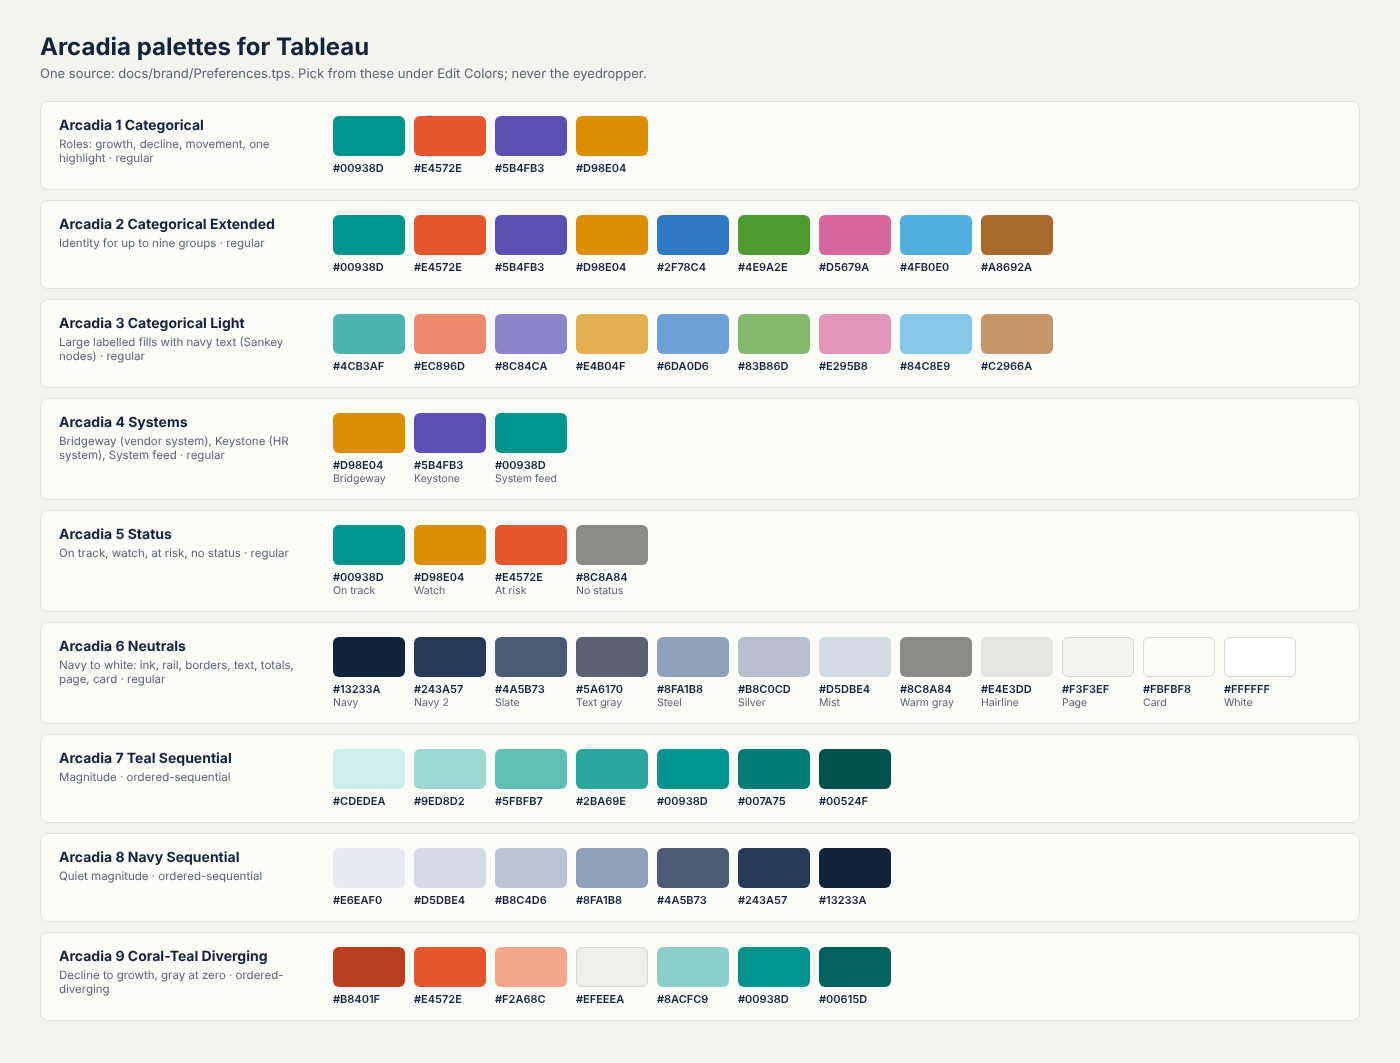
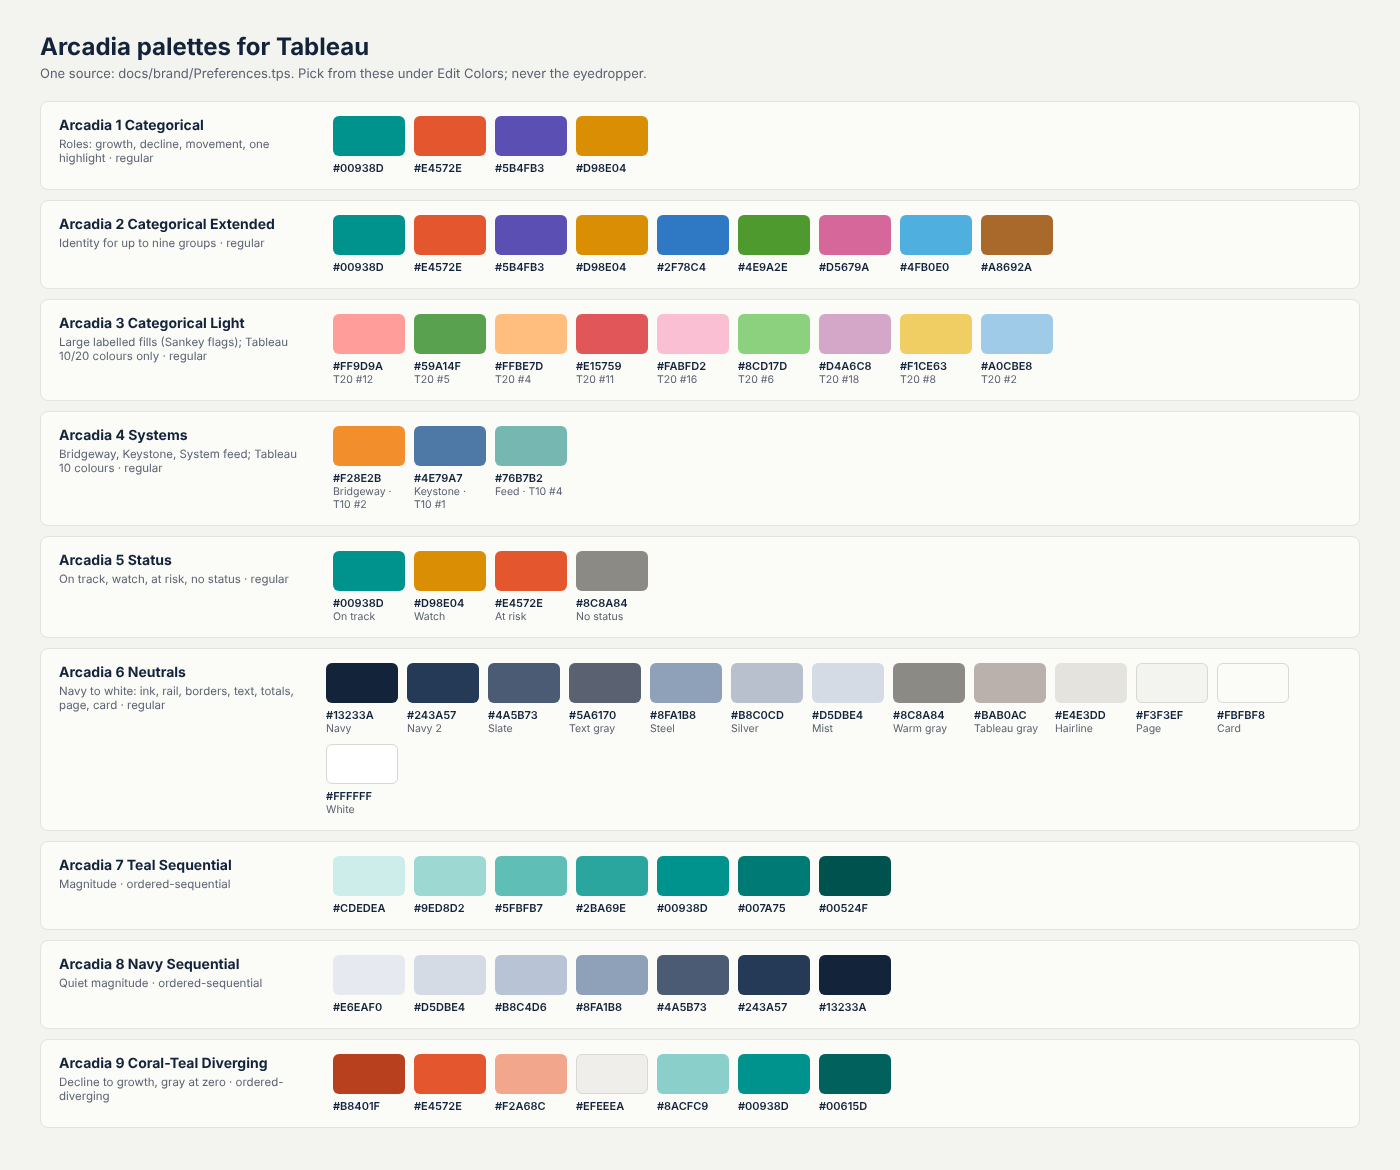
Arcadia palettes 3 and 4 from Tableau 10/20 colours so viz extensions can use them; D4 Sankey swatch table

Changed region(s): [[0.0307, 0.031, 0.9214, 0.9624], [0.0307, 0.683, 0.215, 0.9624]]

diff --git a/docs/brand/build/make_palette_sheet.py b/docs/brand/build/make_palette_sheet.py
@@ -13,8 +13,8 @@ BRAND = Path(__file__).resolve().parents[1]
 USE = {
     "Arcadia 1 Categorical": "Roles: growth, decline, movement, one highlight",
     "Arcadia 2 Categorical Extended": "Identity for up to nine groups",
-    "Arcadia 3 Categorical Light": "Large labelled fills with navy text (Sankey nodes)",
-    "Arcadia 4 Systems": "Bridgeway (vendor system), Keystone (HR system), System feed",
+    "Arcadia 3 Categorical Light": "Large labelled fills (Sankey flags); Tableau 10/20 colours only",
+    "Arcadia 4 Systems": "Bridgeway, Keystone, System feed; Tableau 10 colours",
     "Arcadia 5 Status": "On track, watch, at risk, no status",
     "Arcadia 6 Neutrals": "Navy to white: ink, rail, borders, text, totals, page, card",
     "Arcadia 7 Teal Sequential": "Magnitude",
@@ -22,10 +22,11 @@ USE = {
     "Arcadia 9 Coral-Teal Diverging": "Decline to growth, gray at zero",
 }
 LABELS = {
-    "Arcadia 4 Systems": ["Bridgeway", "Keystone", "System feed"],
+    "Arcadia 3 Categorical Light": ["T20 #12", "T20 #5", "T20 #4", "T20 #11", "T20 #16", "T20 #6", "T20 #18", "T20 #8", "T20 #2"],
+    "Arcadia 4 Systems": ["Bridgeway · T10 #2", "Keystone · T10 #1", "Feed · T10 #4"],
     "Arcadia 5 Status": ["On track", "Watch", "At risk", "No status"],
     "Arcadia 6 Neutrals": ["Navy", "Navy 2", "Slate", "Text gray", "Steel", "Silver", "Mist",
-                           "Warm gray", "Hairline", "Page", "Card", "White"],
+                           "Warm gray", "Tableau gray", "Hairline", "Page", "Card", "White"],
 }
 
 

diff --git a/docs/brand/README.md b/docs/brand/README.md
@@ -28,17 +28,37 @@ The logo is original, so it is safe to publish; Tableau Public's Viz of the Day 
 |---|---|
 | **Arcadia 1 Categorical** | Roles that mean the same on every dashboard: teal growth and hires, coral decline and leavers, violet internal moves, amber one highlight (label it: under 3:1 on the page) |
 | **Arcadia 2 Categorical Extended** | Identity for up to nine groups: the four roles, then blue, green, rose, sky, brown. More than nine: fold into "Other" |
-| **Arcadia 3 Categorical Light** | The same nine as light fills for large labelled areas with navy text on them (Sankey nodes, treemaps). Navy text is at least 4.7:1 on every one. Always labelled: as fills they are harder to tell apart than the full colors |
-| **Arcadia 4 Systems** | Bridgeway (vendor system) amber, Keystone (HR system) violet, the system feed teal. Color follows the system on every dashboard |
+| **Arcadia 3 Categorical Light** | Nine colors for large labelled fills with navy text (Sankey flags, treemaps), taken only from Tableau 10 and Tableau 20, so they can be picked inside viz extensions too. Always labelled |
+| **Arcadia 4 Systems** | Bridgeway (vendor system) orange, Keystone (HR system) blue, the system feed teal: Tableau 10 colors, checked for color-blind separation as a set. Color follows the system on every dashboard; white text on Keystone |
 | **Arcadia 5 Status** | On track, watch, at risk, no status. Always with a word |
-| **Arcadia 6 Neutrals** | Dark to light: navy (brand ink, the rail, titles), navy 2 (controls on the rail), slate (borders on navy), text gray (subtitles, axis labels), steel, silver (dividers on navy), mist, warm gray (Opening and Closing totals), hairline (gridlines), page (behind the cards), card (chart backgrounds), white |
+| **Arcadia 6 Neutrals** | Dark to light: navy (brand ink, the rail, titles), navy 2 (controls on the rail), slate (borders on navy), text gray (subtitles, axis labels), steel, silver (dividers on navy), mist, warm gray (Opening and Closing totals), Tableau gray (the Sankey's middle column), hairline (gridlines), page (behind the cards), card (chart backgrounds), white |
 | **Arcadia 7 Teal Sequential** | Magnitude on one hue (growth %, headcount on a map) |
 | **Arcadia 8 Navy Sequential** | Magnitude that should stay quiet (counts, age bands) |
 | **Arcadia 9 Coral-Teal Diverging** | Decline to growth, gray at zero |
 
 Every categorical order was checked for color-blind separation (protanopia, deuteranopia, tritanopia) in this order against the card color, so keep the order. Regenerate the picture after any change: `python3 docs/brand/build/make_palette_sheet.py`.
 
-**Dashboard #4, Contingent Workforce Reconciliation:** Sankey flags 01 to 09 in *Arcadia 3 Categorical Light* (in order), risks in steel (*Arcadia 6 Neutrals*), places in *Arcadia 4 Systems*; the ticket card's rows in *Arcadia 4 Systems* too.
+**Viz extensions use Tableau's palettes only.** The Sankey extension (and Tableau's other viz extensions) lists Tableau's built-in palettes, never the ones in `Preferences.tps`. So the palettes an extension needs, 3 and 4, are made only of Tableau 10 and Tableau 20 colors: the same hex in both places, picked from the built-in palette inside the extension and from the Arcadia palette everywhere else.
+
+**Dashboard #4, Contingent Workforce Reconciliation:** in the Sankey's Edit Colors (choose the palette, then the swatch; the number is its place in the palette's order, which runs down each column of swatches):
+
+| Node | Color | In the extension |
+|---|---|---|
+| 01 One person, two IDs | `#FF9D9A` | Tableau 20, light red (12th) |
+| 02 Bridgeway ID missing or different | `#59A14F` | Tableau 20, green (5th) |
+| 03 In Bridgeway, not in Keystone | `#FFBE7D` | Tableau 20, light orange (4th) |
+| 04 Order open or billed after the end date | `#E15759` | Tableau 20, red (11th) |
+| 05 Cost center differs | `#FABFD2` | Tableau 20, light pink (16th) |
+| 06 PID still filled after the end date | `#8CD17D` | Tableau 20, light green (6th) |
+| 07 Two active PID records | `#D4A6C8` | Tableau 20, light purple (18th) |
+| 08 Working in Bridgeway, ended in Keystone | `#F1CE63` | Tableau 20, yellow (8th) |
+| 09 Active in Keystone, not working in Bridgeway | `#A0CBE8` | Tableau 20, light blue (2nd) |
+| Every risk | `#BAB0AC` | Tableau 10, gray (10th) |
+| Bridgeway (vendor system) | `#F28E2B` | Tableau 10, orange (2nd) |
+| Keystone (HR system) | `#4E79A7` | Tableau 10, blue (1st) |
+| System feed (integration) | `#76B7B2` | Tableau 10, teal (4th) |
+
+The ticket card's rows use *Arcadia 4 Systems*, the same three colors.
 
 ### Install the palettes
 

diff --git a/docs/projects/contingent-workforce/spikes_guide.md b/docs/projects/contingent-workforce/spikes_guide.md
@@ -51,16 +51,15 @@ If the S1 workbook already exists, refresh its extract (Data > CW Reconciliation
 
 The extension (version 2.0, December 2025) sets colours per node, per level, in **Format Extension > Edit Colors**. A ribbon takes the colour of the node it leaves.
 
-1. Install the Arcadia palettes first (`docs/brand/Preferences.tps`, see `docs/brand/README.md`) and restart Tableau. Then **Edit Colors**, level by level, choosing the palette in *Select Color Palette*:
-   - `flag_label`: *Arcadia 3 Categorical Light*, then **Assign To Level** (flags 01 to 09 take its nine colours in order)
-   - `risk`: *Arcadia 6 Neutrals*, click each risk and pick steel `#8FA1B8`
-   - `place_label`: *Arcadia 4 Systems*, **Assign To Level** (Bridgeway amber, Keystone violet, System feed teal)
-   If the Arcadia palettes do not appear in the extension's list (they do under Tableau's own Edit Colors), record it: that decides whether the build colours the Sankey from a built-in palette.
+1. The extension lists only Tableau's own palettes (checked 2026-10-25: the Arcadia palettes show under Tableau's Edit Colors, not the extension's). So the Arcadia palettes the Sankey needs are built from Tableau 10 and Tableau 20 colours. In **Edit Colors**, pick the data item, the palette, then the swatch, as in the table in `docs/brand/README.md` (Dashboard #4):
+   - `flag_label`, from Tableau 20: 01 light red, 02 green, 03 light orange, 04 red, 05 light pink, 06 light green, 07 light purple, 08 yellow, 09 light blue
+   - `risk`, from Tableau 10: gray for every risk
+   - `place_label`, from Tableau 10: Bridgeway orange, Keystone blue, System feed teal
 2. Look for a setting that colours links by their **target** node. The ribbons from a risk to a place should take the place's colour; by default a ribbon takes the colour of the node it leaves (grey here). Record which it is.
 3. Level width about 150 so the labels sit inside the nodes; node labels show the value and the percentage of total (version 2.0 option).
 4. Tooltip: `flag_label`, `flag_rank`, `flag_rank_prior_close`, `flag_count_prior_close`, `SUM(gaps)`.
 
-**Pass:** the Arcadia palettes are offered, the colours hold after a filter change (version 2.0 fixed colour persistence), risk-to-place ribbons can take the place's colour, flag 09's label is readable, and the tooltip shows the rank and the prior close. Send a screenshot of the Edit Colors panel too.
+**Pass:** the colours hold after a filter change (version 2.0 fixed colour persistence), risk-to-place ribbons can take the place's colour, flag 09's label is readable, and the tooltip shows the rank and the prior close. Send a screenshot of the Edit Colors panel too.
 
 **Fallback:** risk-to-place ribbons stay grey; the place colour is on the place nodes only.
 

diff --git a/docs/projects/contingent-workforce/release_4_plan.md b/docs/projects/contingent-workforce/release_4_plan.md
@@ -372,7 +372,7 @@ Three sets on the one data source; an empty set means All; a click adds or remov
 
 ### Phase 9: Figma
 
-The mock, matching the prototype, in the Arcadia palettes (`docs/brand/Preferences.tps`, nine palettes, colour-blind checked): flags in *Arcadia 3 Categorical Light*, risks steel, places and the ticket card in *Arcadia 4 Systems*, the rail and text in *Arcadia 6 Neutrals*. The prototype's own shades (`#EF9F27`, `#7F77DD`, `#1D9E75`, page `#F3F4F6`) move to the brand ones.
+The mock, matching the prototype, in the Arcadia palettes (`docs/brand/Preferences.tps`, nine palettes, colour-blind checked): flags in *Arcadia 3 Categorical Light*, risks Tableau gray `#BAB0AC`, places and the ticket card in *Arcadia 4 Systems*, the rail and text in *Arcadia 6 Neutrals*. The prototype's own shades (`#EF9F27`, `#7F77DD`, `#1D9E75`, page `#F3F4F6`) move to the brand ones. The Sankey extension lists only Tableau's built-in palettes (spike S3), so palettes 3 and 4 are made of Tableau 10 and 20 colours: Bridgeway orange `#F28E2B`, Keystone blue `#4E79A7`, System feed teal `#76B7B2`.
 
 ### Phase 10: build plan
 
